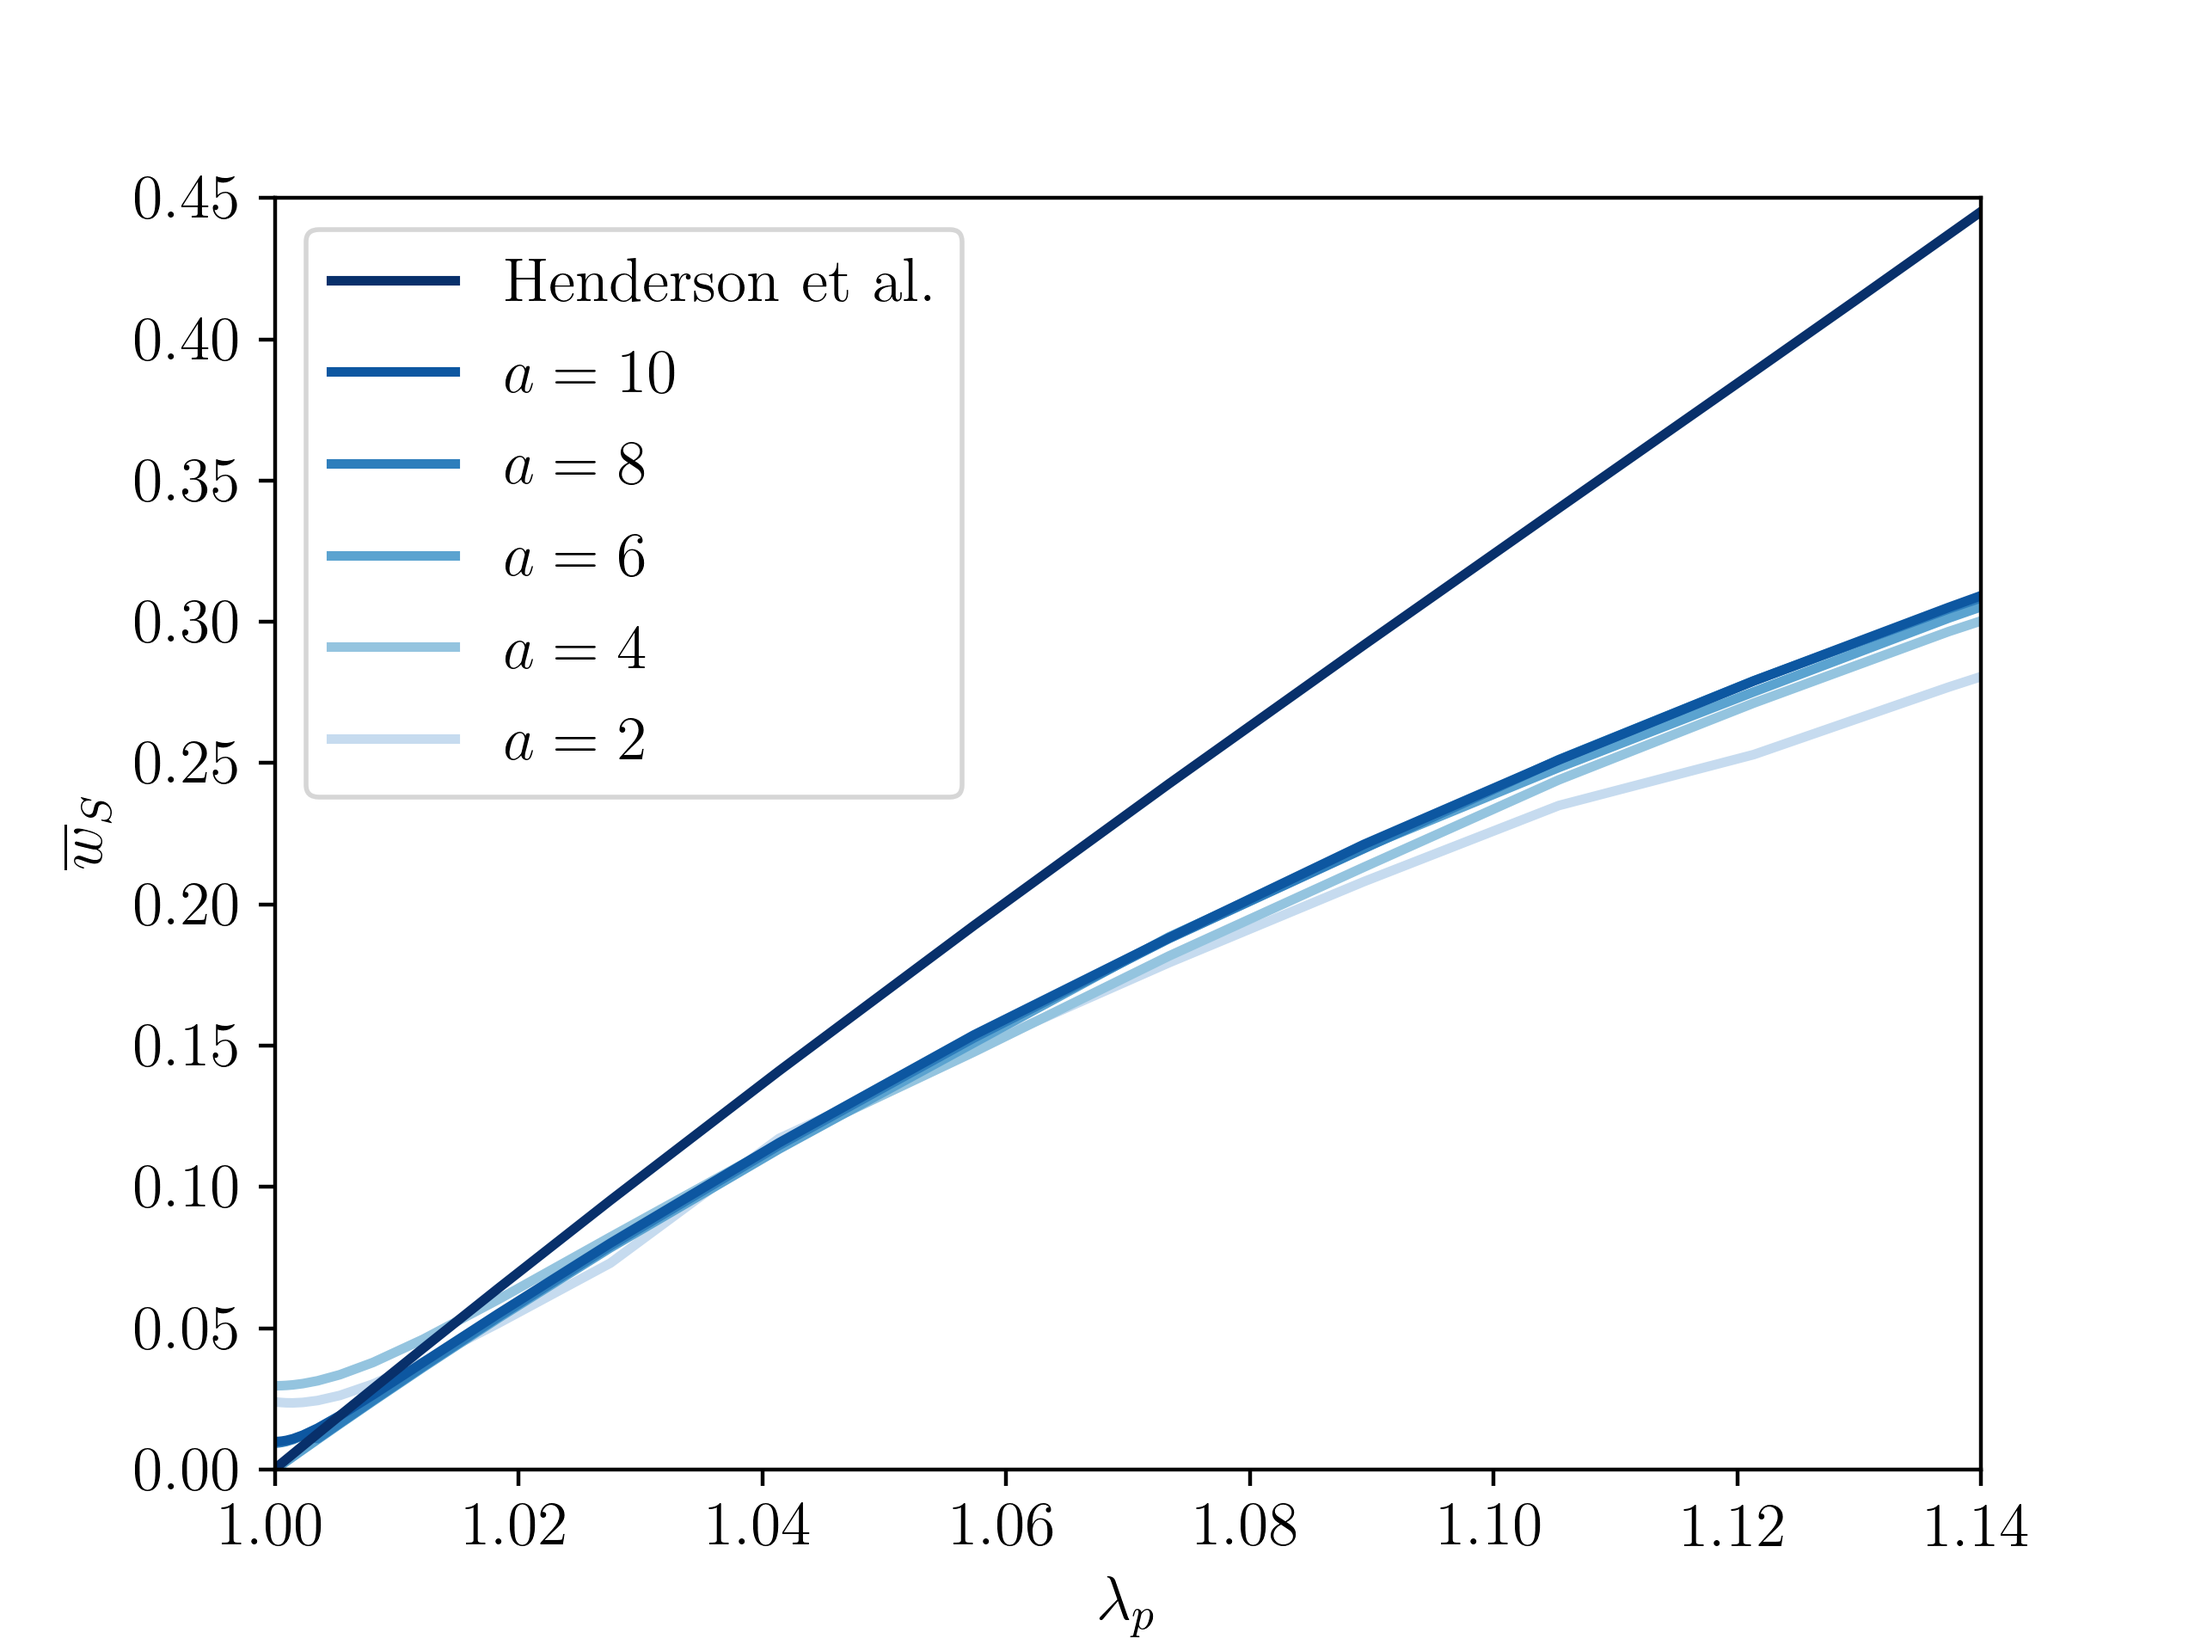
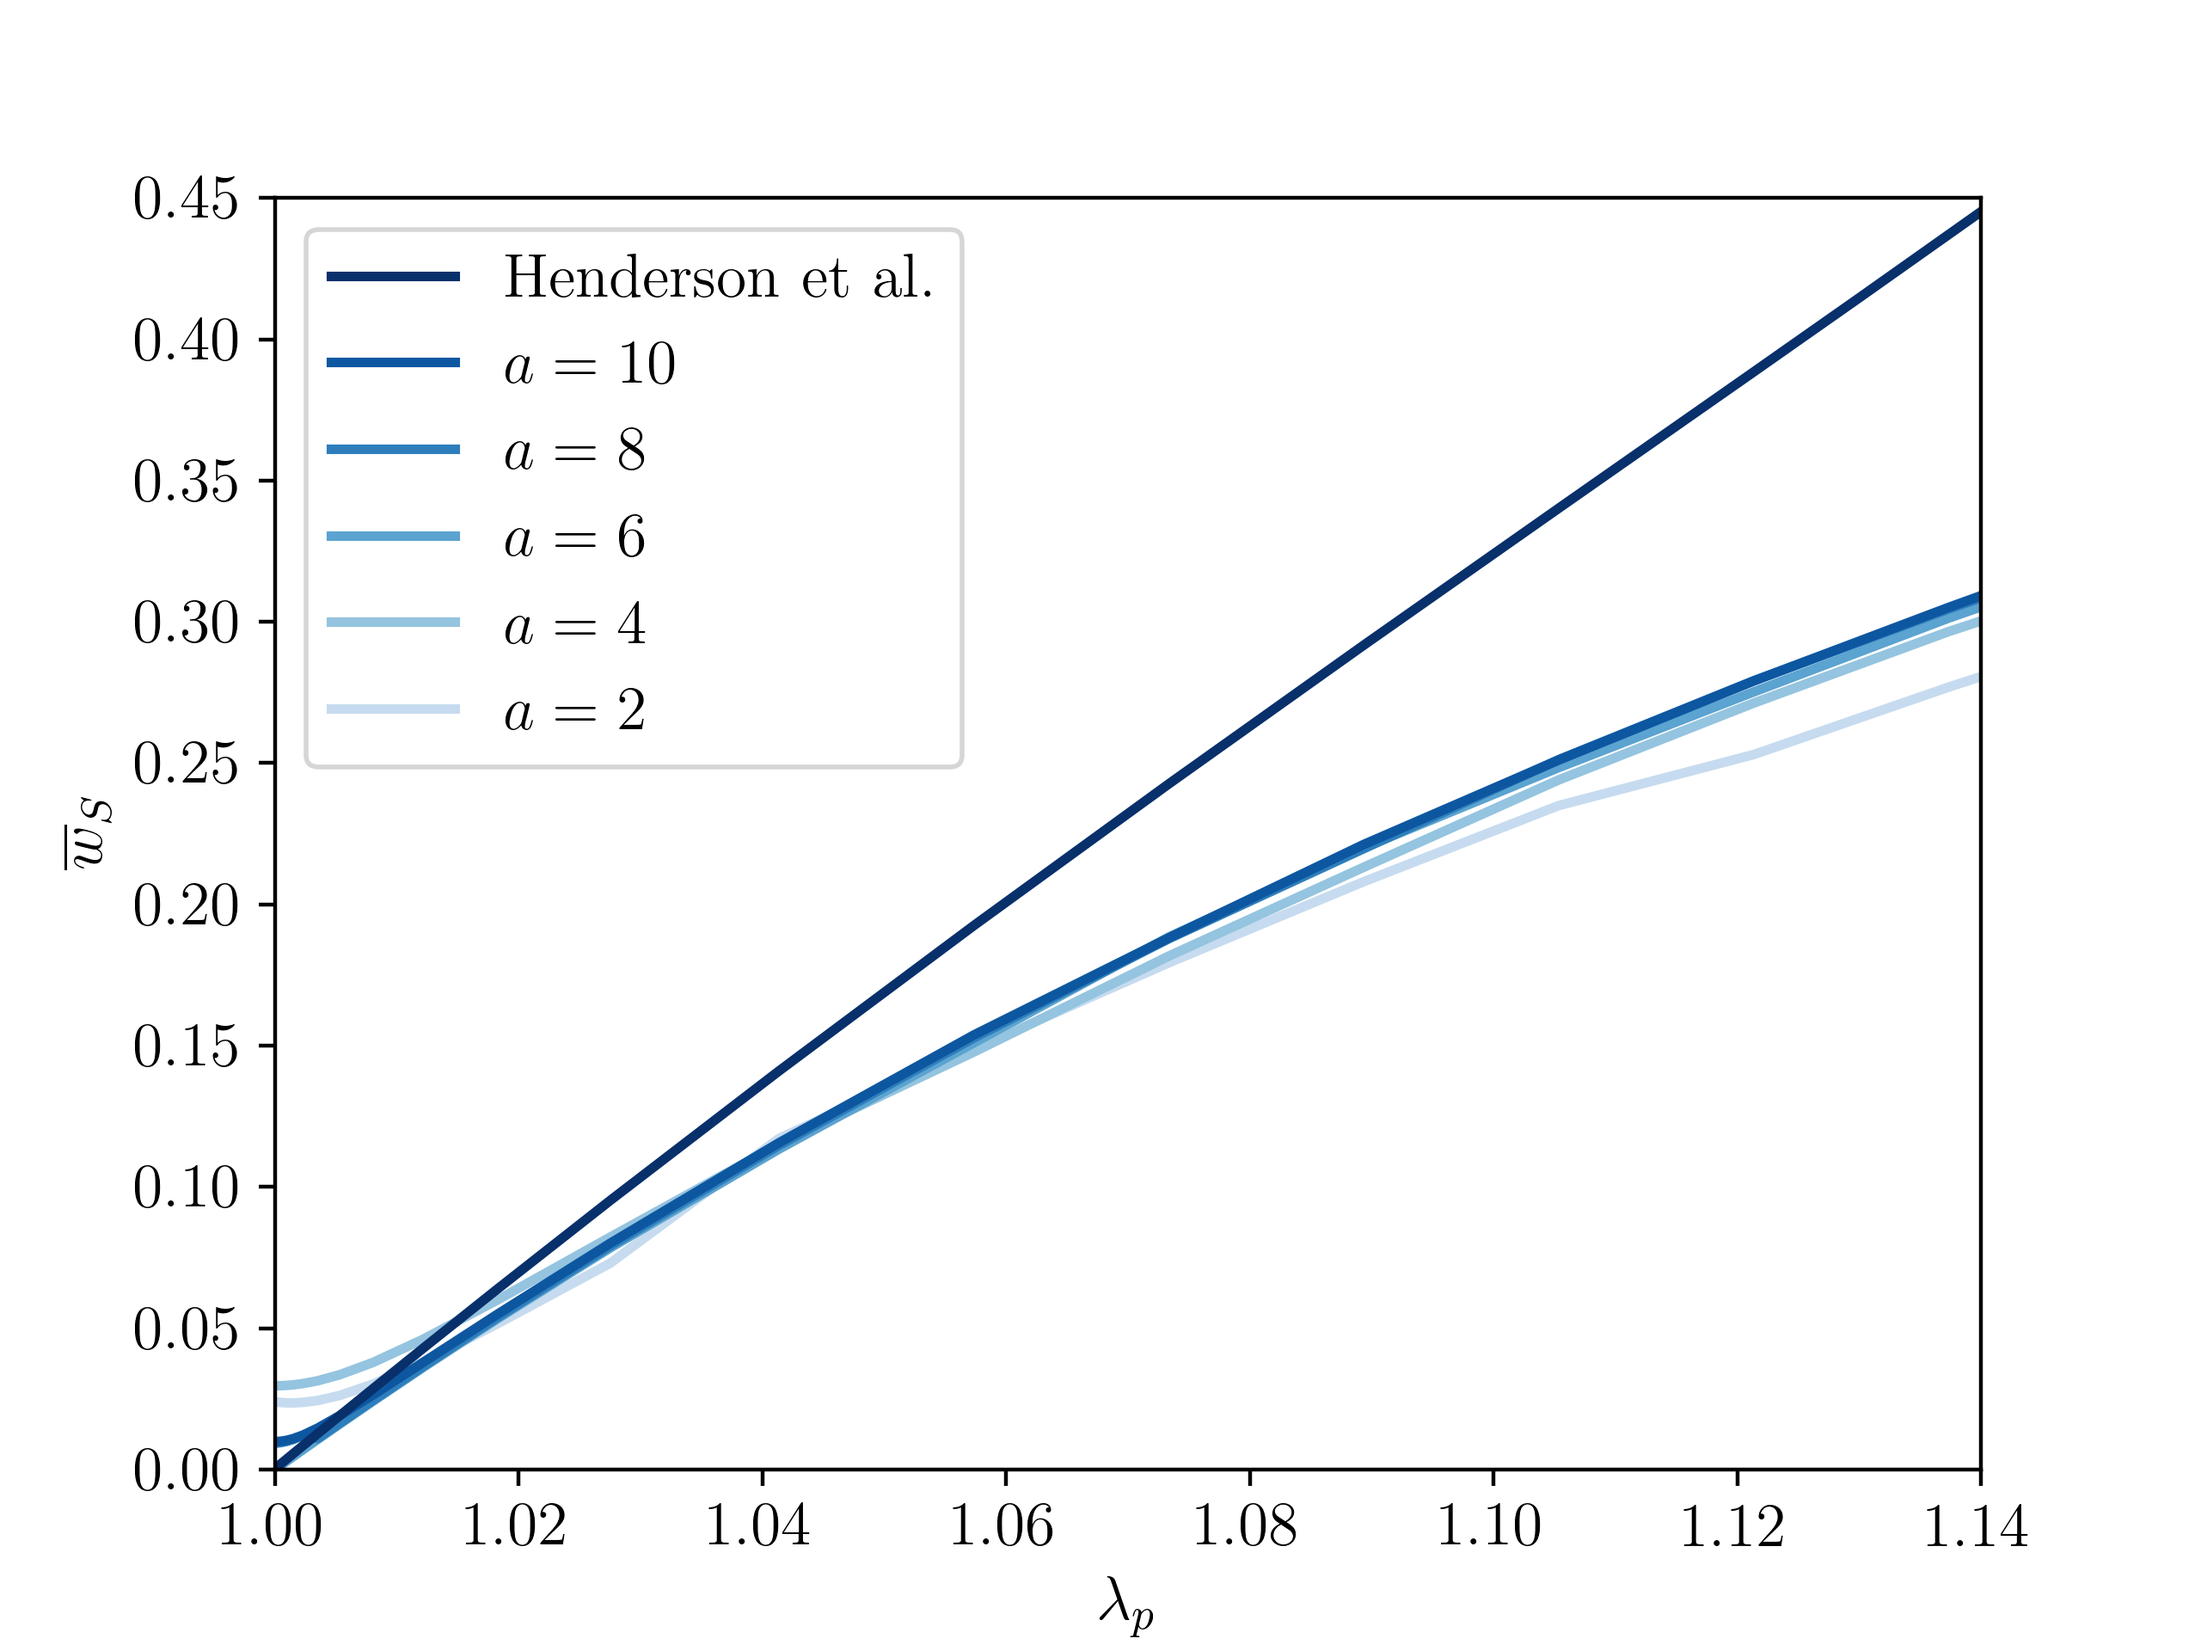
Fixing y limit
making y limit consistent across graphs

diff --git a/analysis/analysis_curvature_cutlength.py b/analysis/analysis_curvature_cutlength.py
@@ -1,4 +1,4 @@
-""" Last updated: 2023/05/31
+""" Last updated: 2023/06/15
 
 Script for plotting the effect of curvature and cut length on incision 
 opening (w/l). These are plotted for the change in applied stretch.
@@ -11,7 +11,7 @@ import matplotlib
 import matplotlib.pyplot as plt
 from scipy.optimize import curve_fit
 
-def plot(path, csv1, csv2, csv3, csv4, csv5, xticks, yticks, legend, name, colors):
+def plot(path, csv1, csv2, csv3, csv4, csv5, ylimit, legend, name, colors):
         
     # extract data
     dataframe1 = pd.read_csv(path+csv1, encoding='ISO-8859-1')
@@ -32,15 +32,16 @@ def plot(path, csv1, csv2, csv3, csv4, csv5, xticks, yticks, legend, name, color
 
     plt.figure()
     # note that we have larger values (darker color) to smaller values (lighter color)
-    plt.plot(dataframe1.lambda_p, dataframe1.wOverlHalf, linestyle='-', color=cmap(colors[0]), label=legend[0], linewidth=2)
-    plt.plot(dataframe2.lambda_p, dataframe2.wOverlHalf, linestyle='-', color=cmap(colors[1]), label=legend[1], linewidth=2)
-    plt.plot(dataframe3.lambda_p, dataframe3.wOverlHalf, linestyle='-', color=cmap(colors[2]), label=legend[2], linewidth=2)
-    plt.plot(dataframe4.lambda_p, dataframe4.wOverlHalf, linestyle='-', color=cmap(colors[3]), label=legend[3], linewidth=2)
+    plt.plot(dataframe1.lambda_p, dataframe1.wbar, linestyle='-', color=cmap(colors[0]), label=legend[0], linewidth=2)
+    plt.plot(dataframe2.lambda_p, dataframe2.wbar, linestyle='-', color=cmap(colors[1]), label=legend[1], linewidth=2)
+    plt.plot(dataframe3.lambda_p, dataframe3.wbar, linestyle='-', color=cmap(colors[2]), label=legend[2], linewidth=2)
+    plt.plot(dataframe4.lambda_p, dataframe4.wbar, linestyle='-', color=cmap(colors[3]), label=legend[3], linewidth=2)
     if len(legend) == 6:
-        plt.plot(dataframe5.lambda_p, dataframe5.wOverlHalf, linestyle='-',color=cmap(colors[4]), label=legend[4], linewidth=2)
-        plt.plot(dataframeHenderson.lambda_p, dataframeHenderson.wOverlHalf, linestyle='-',color=cmap(colors[5]), label=legend[5], linewidth=2)
+        plt.plot(dataframe5.lambda_p, dataframe5.wbar, linestyle='-',color=cmap(colors[4]), label=legend[4], linewidth=2)
+        plt.plot(dataframeHenderson.lambda_p, dataframeHenderson.wbar, linestyle='-',color=cmap(colors[5]), label=legend[5], linewidth=2)
 
     plt.xlim([1, 1.14])
+    plt.ylim(ylimit)
     plt.xlabel(r'$\lambda_p$')
     plt.ylabel(r'$\overline{w}_S$')
 
@@ -59,10 +60,9 @@ def transverseCurvatureVsCutOpening():
     csva10Tran = 'curvature_10_tran.csv'
     legend = [r'$a=2$', r'$a=4$', r'$a=6$', r'$a=8$', r'$a=10$', 'Henderson et al.']
     name = 'figure-curvature_transverse.png'
-    xticks = np.arange(1.000, 1.160, step=0.020)
-    yticks = np.arange(0.000, 0.500, step=0.050)
+    ylimit = [0.00, 0.45]
     colors = [0.25, 0.40, 0.55, 0.70, 0.85, 1.00]
-    plot(path, csva2Tran, csva4Tran, csva6Tran, csva8Tran, csva10Tran, xticks, yticks, legend, name, colors)
+    plot(path, csva2Tran, csva4Tran, csva6Tran, csva8Tran, csva10Tran, ylimit, legend, name, colors)
 
 def longitudinalCurvatureVsCutOpening():
     path = '../simulations/results/'
@@ -73,10 +73,9 @@ def longitudinalCurvatureVsCutOpening():
     csva10Long = 'curvature_10_long.csv'
     legend = [r'$a=2$', r'$a=4$', r'$a=6$', r'$a=8$', r'$a=10$', 'Henderson et al.']
     name = 'figure-curvature_longitudinal.png'
-    xticks = np.arange(1.000, 1.160, step=0.020)
-    yticks = np.arange(0.000, 0.500, step=0.050)
+    ylimit = [0.00, 0.45]
     colors = [0.25, 0.40, 0.55, 0.70, 0.85, 1.00]
-    plot(path, csva2Long, csva4Long, csva6Long, csva8Long, csva10Long, xticks, yticks, legend, name, colors)
+    plot(path, csva2Long, csva4Long, csva6Long, csva8Long, csva10Long, ylimit, legend, name, colors)
 
 def transverseCutLengthVsCutOpening():
     path = '../simulations/results/'
@@ -87,10 +86,9 @@ def transverseCutLengthVsCutOpening():
     csv32ndTran = 'cut-length_32_tran.csv'
     legend = [r'$l_0=b/2$', r'$l_0=b/4$', r'$l_0=b/8$', r'$l_0=b/16$', r'$l_0=b/32$']
     name = 'figure-cutLength_transverse.png'
-    xticks = np.arange(1.000, 1.160, step=0.020)
-    yticks = np.arange(0.000, 0.500, step=0.050)
+    ylimit = [0.00, 0.35]
     colors = [1.00, 0.80, 0.60, 0.40]
-    plot(path, csvHalfTran, csv4thTran, csv8thTran, csv16thTran, csv32ndTran, xticks, yticks, legend, name, colors)
+    plot(path, csvHalfTran, csv4thTran, csv8thTran, csv16thTran, csv32ndTran, ylimit, legend, name, colors)
 
 def longitudinalCutLengthVsCutOpening():
     path = '../simulations/results/'
@@ -101,10 +99,9 @@ def longitudinalCutLengthVsCutOpening():
     csv32ndLong = 'cut-length_32_long.csv'
     legend = [r'$l_0=a/2$', r'$l_0=a/4$', r'$l_0=a/8$', r'$l_0=a/16$', r'$l_0=a/32$']
     name = 'figure-cutLength_longitudinal.png'
-    xticks = np.arange(1.000, 1.160, step=0.020)
-    yticks = np.arange(0.000, 0.500, step=0.050)
+    ylimit = [0.00, 0.35]
     colors = [1.00, 0.80, 0.60, 0.40]
-    plot(path, csvHalfLong, csv4thLong, csv8thLong, csv16thLong, csv32ndLong, xticks, yticks, legend, name, colors)
+    plot(path, csvHalfLong, csv4thLong, csv8thLong, csv16thLong, csv32ndLong, ylimit, legend, name, colors)
 
 if __name__ == '__main__':
     
